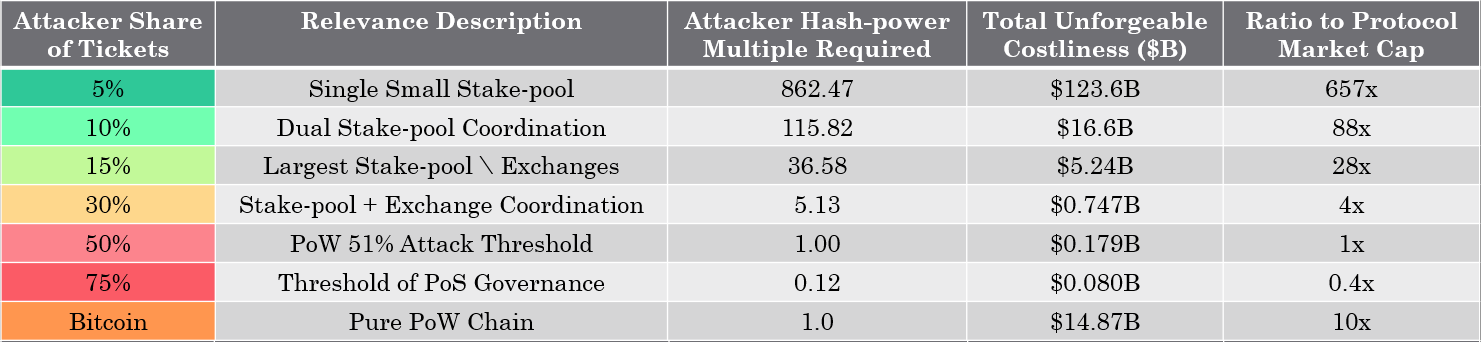
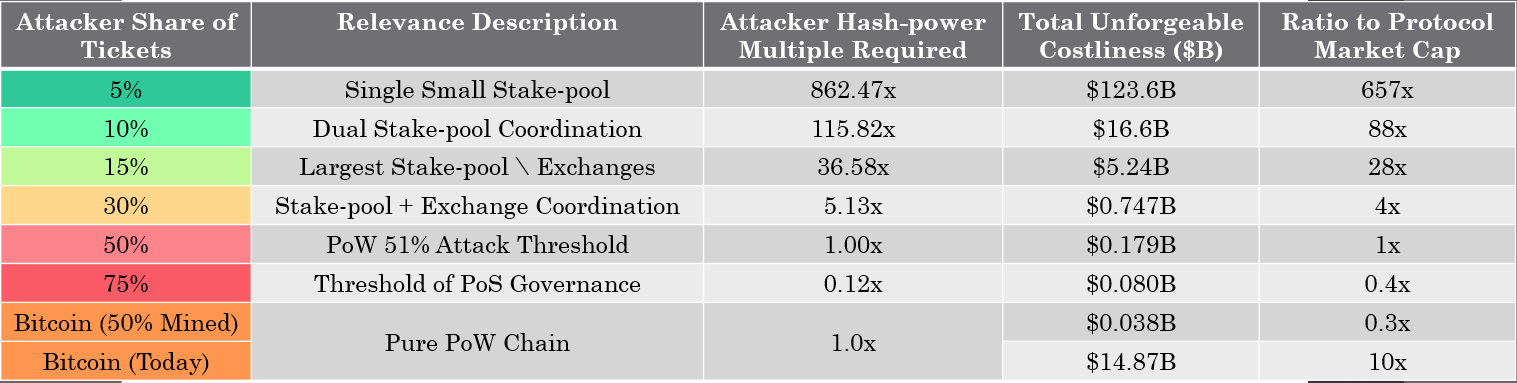
UC paper, final draft

diff --git a/research_articles/dcr_unforgeable_costliness/dcr_unforgeable_costliness.md b/research_articles/dcr_unforgeable_costliness/dcr_unforgeable_costliness.md
@@ -17,17 +17,17 @@ As **Bitcoin**  continues to assert it's market dominance, it is the correct ben
 
 In [Part 1 of this series](https://medium.com/@_Checkmatey_/monetary-premiums-can-altcoins-compete-with-bitcoin-54c97a92c6d4), I established that a convincing relationship exists between **Decred's** scarcity, measured by stock-to-flow ratio, and its market valuation. The linear regression analysis suggests that there is an underlying demand for DCR which is of remarkably similar conviction to that for BTC during it's formative years.
 
-In fact the correlations between **Decred** and **Bitcoin** at an equivalent age of 3.67 years are so strong that additional work is required to establish the depth to which **Decred** is following in **Bitcoin's** footsteps.
+In fact the correlations between **Decred** and **Bitcoin** at an equivalent age of 3.67 years (50% coins mined) are so strong, additional work is justified to establish the depth to which **Decred** is following in **Bitcoin's** footsteps.
 
-In this paper, I explore the **Security and Consensus** mechanisms of **Decred** and **Bitcoin** to quantify the unforgeable costliness of coin production. The immutability and resistance of these protocols to monopolistic capture is the core value proposition which enables the separation of money and state. As such, quantifying the performance and security budgets will provide confidence for people who chose to securely store their wealth in BTC or DCR, potentially for thousands of years to come.
+In this paper, I explore the **Security and Consensus** mechanisms of **Decred** and **Bitcoin** to quantify the unforgeable costliness of coin production, cost to attack each network and the finality of transactions. 
+
+Immutability and censorship resistance is the core value proposition of sound money protocols and that which truely enables the separation of money and state. As such, quantifying the security budgets, performance and finality will provide confidence for users, investors and speculators who chose to store their wealth in BTC or DCR, potentially for hundreds of years or more.
 
 ## Disclosure
 
-*This paper was written and researched as part of the author's [research proposal](https://proposals.decred.org/proposals/78b50f218106f5de40f9bd7f604b048da168f2afbec32c8662722b70d62e4d36) accepted by the Decred DAO. Thus, the writer was paid in DCR for their billed time undertaking the research. Nevertheless, the study aims to be objective and mathematically rigorous based on publicly available market and blockchain data. All findings can be readily verified by readers in the attached [spreadsheet]() and all assumptions shall be clearly stated.*
+*This paper was written and researched as part of the author's [research proposal](https://proposals.decred.org/proposals/78b50f218106f5de40f9bd7f604b048da168f2afbec32c8662722b70d62e4d36) accepted by the Decred DAO. Thus, the writer was paid in DCR for their billed time undertaking the research. Nevertheless, the study aims to be objective and mathematically rigorous based on publicly available market and blockchain data. All findings can be readily verified by readers in the attached [spreadsheet](analysis/dcr_unforgeable_analysis.xlsx) and all assumptions shall be clearly stated.*
 
-# ***UPDATE SPREADSHEET LINK***
-
-# Part 2 - Unforgeable Costliness
+# Unforgeable Costliness
 
 An essential characteristic of a digital sound money protocol is **Unforgeable Costliness**, that is the impossability of producing the asset without a provable expendature of capital, energy and/or time. Unforgeable Costliness stipulates that one of these scarce resources must be exchanged for production of another (capital being an abstraction of both energy and time). Without it, production may be gamed by those with greater access to the source, subsequently destroying the confidence and trust in future expectations of inflation.
 
@@ -37,7 +37,7 @@ Nick Szabo beautifully articulated the idea by describing the unavoidable and ex
 
 >"Precious metals and collectibles have an unforgeable scarcity due to the costliness of their creation. This once provided money the value of which was largely independent of any trusted third party” Nick Szabo (2005)
 
-Notable Examples of unforgeable costliness and the impact on relative scarcity are presented in the following table with the scarcest assets, that reliably store value over time, having a consistent feature set:
+Notable Examples of unforgeable costliness and the impact on relative scarcity are presented in the following table. The scarcest assets which reliably store value over time, have a consistent feature set:
 
 1. **Improbability of existence** due to mythology and skill of the creator, a low natural abundance or a hard coded fixed supply.
 2. **Requirement for expenditure  of capital, energy and time** during production in the form of physical mining, Proof-of-Work, capital expenditure  and human effort
@@ -45,21 +45,15 @@ Notable Examples of unforgeable costliness and the impact on relative scarcity a
 
 ![Scarcity_examples](images/image_1.png)
 
-The remainder of this paper will explore the ***Unforgeable Costliness*** of **Bitcoin** and **Decred** as a gauge on relative scarcity considering this metric. By quantifying the costs associated with each mechanism of coin production, we an form a thesis around the security and resilience of the system to uphold the codified scarcity.
+The remainder of this paper will explore the ***Unforgeable Costliness*** of **Bitcoin** and **Decred** as a gauge on relative scarcity and protocol security. By quantifying the unavoidable costs associated with coin production, we may formulate a thesis regarding the security, finality and resilience of the protocol to uphold the codified scarcity.
 
-The unforgeable costliness will be explored in the following areas:
+# Value in Authenticity
 
-1. Cost of Creation
-2. Cost of Production
-3. Cost of Time
+**Gold**, due to it's atomic properties is of extremely low abundance relative to other commodities. It's existence and supply is a product of the laws of physics and thus may only be acquired via exploration and extraction or by purchasing it off the market. This manifests as a natural constraint on inflation given the demands of production.
 
-# The Cost of Creation
+As a result, global civilisations have converged on gold as the monetary base throughout history and industrial uses represent only a small fraction of global gold demand. It seems a reasonable conclusion that gold's scarcity and monetary premium underlies its demand for jewelry, rather than the other way around.
 
-**Gold**, due to it's atomic properties is of extremely low abundance relative to other commodities. It's existence and supply is a product of the laws of physics and thus may only be acquired via physical exploration and extraction or by purchasing it off the market. This manifests as a natural constraint on supply inflation given demands of production and as a result,global civilisations have converged on gold as the monetary base throughout history.
-
-Industrial uses represent a small fraction of global demand and it is a reasonable conclusion that gold's scarcity and monetary premium underlies demand for jewelry, rather than the other way around.
-
-Scarce digital assets like **Bitcoin** and **Decred** differ to gold in that they are man-made and thus have a discrete, designed genesis event and the incentive model to secure these protocols relies on demand for the scarce native units (BTC and DCR). Thus the initial distribution mechanism must be carefully designed to incentivise protection of the protocol during early life whilst not compromising the market perception of scarcity and fairness.
+Scarce digital assets like **Bitcoin** and **Decred** differ to gold in that they are man-made and thus have a discrete, designed genesis event. The incentive model to secure these protocols relies on demand for the scarce native units (BTC and DCR). Thus, the initial distribution mechanism must be carefully designed to incentivise security during early life whilst simultaneously achieving a market perception of scarcity and fairness.
 
 Appreciation for the initial distribution is important for man-made scarce assets as it carries risk of unfair leverage granted to the creators. Establishing user trust in a money protocol requires great finesse and skill in design, and thus the cost of creation must be the subject of user critique.
 
@@ -86,7 +80,7 @@ The whitepaper for **Decred's** primitive called [Memcoin2](https://www.decred.o
 
 **Decred's** main-net launched on 8 Feb 2016 at which time the cryptocurrency market had by then reached an elevated state of maturity. **Bitcoin** had attained a market valuation over $6 billion and the market had significantly more participants and eyes (of friends and foes) than at the time of **Bitcoin's** launch. On one hand, these market conditions can benefit coin price appreciation and attract miners and investors, whilst on the other; pose challenges for bootstrapping security without compromising a 'fair initial distribution'. This was compounded by the established GPU mining industry which could have reasonably attacked **Decred** in it's early and vulnerable state. 
 
-### The Pre-mine
+## The Decred Pre-mine
 
 An important feature of **Decred** is it's Hybrid PoW/PoS security and consensus mechanism. In order to secure the chain at launch, it was necessary that a majority of honest actors, with an appreciation of the project's philosophy, participate in the Proof-of-Stake ticket system.
 
@@ -105,7 +99,7 @@ Some notes regarding the **Decred** pre-mine as of the time of writing are:
 
 ![Decred Pre-mine Status](images/image_03.png)
 
-### Early Distribution
+## Early Distribution
 
 The **Decred** block reward structure allocates 30% of the block-reward to Proof-of-Stake and thus results in a persistent dilution of governance rights for all participants. The chart below models the most conservative case (most advantageous for founders) where:
 1. All spent DCR from the pre-mine was perfectly staked by community and founders (no consideration of ticket price which in reality results in a portion of an individual's DCR not being included in the stake)
@@ -124,134 +118,145 @@ In a very similar manner to Satoshi, the **Decred** founders have taken appropri
 
 Key ingredients of **Decred's** initial distribution may be reasonably summarised as follows:
 1. Complete transparency of both the project genesis (as Memcoin2 and Decred) the conditions of pre-mine participation months in advance of releasing the code.
+
 2. An open application process for community members to participate with appropriate screening for false entries given heightened market awareness. Appropriate staking and mining tools made available at the time of launch across almost all operating systems.
+
 3. Awareness and coin distribution for people most likely to nurture the protocol through the most vulnerable early years.
+
 4. Appropriately gradual reduction in the role of the founding team including a deliberate dilution of voting right. This is exacerbated by the clear distribution of coins by PoW miners into the hands of investing community participants.
+
 5. An end of day founder's reward of 4% of the DCR supply which is consistent with that which public opinion deems fair remuneration for Satoshi's work on Bitcoin (value of time and skill).
 
 It is well known that some in the cryptocurrency industry view pre-mines as a dirty word which exist solely to unfairly benefit founding teams (with many unfortunate examples as evidence). The author has no expectation for changing those minds.
 
 What is desireable is to impart on the more open minded reader that **Decred** was launched in very different environment to **Bitcoin**. By careful design, a small pre-mine acted to both bootstrap network security during the most vulnerable years, allow Decred to remain self-sovereign (no external funding) and reward the team for their skill and time at the same rate as Satoshi Nakamoto.
 
-# The Cost of Production
+# The Cost of Acquisition
 
-Whilst it is critical to understand the genesis event of sound money protocols to ensure fairness of launch, the costs associated with it are subjective. It is difficult to assign a consistent value beyond the portion of total coin supply aquired during the 'immaculate conception' of **Bitcoin** (4% Satoshi mine) and the itricate design decisions of **Decred** (8% Decred pre-mine split 50/50). Both genesis events draw from respective cyper-punk roots, anonymous founders and the origin stories and distribution mechanisms will appeal differently to each individual.
+Whilst it's critical to understand the genesis event of sound money protocols to ensure fairness of launch, the costs associated with it are subjective. It is difficult to assign a consistent value beyond a portion of total coin supply aquired during the 'immaculate conception' of **Bitcoin** (4% Satoshi mine) or the intricate design decisions of **Decred** (8% pre-mine split 50/50). Both genesis events draw from respective cyper-punk roots, anonymous founders and the distribution mechanisms will appeal differently to each individual.
 
-However when it comes to quantifying the unforgeable costliness of coin production, it is possible to attribute real world costs in the form of energy, capital and human time invested. Cryptocurrency protocols are global phenomena secured by a complex and diverse range of isolated human interactions with Proof-of-Work mining and Proof-of-Stake lock-up. 
+However, it is possible to attribute real world costs in the form of energy, capital and human time invested to quantify the unforgeable costliness of coin production. Cryptocurrency protocols are a global phenomena secured by a complex and diverse range of isolated human interactions and thus a framework is required to simplify the problem. 
 
-The remainder of this paper aims to quantify this unforgeable costliness by assessing the converse; the cost required to forge coins in an minority chain attack. 
-
-An appropriate assumption in this instance is to expect rational honest actors to act in their own best interest which over time, tends toward an expendature of exactly as much energy, capital and time in production as the value of the asset produced allows. In other words, the marginal cost of production (MC) tends to equallity with the marginal reward (MR), a concept covered by Sztorc ([2014](http://www.truthcoin.info/blog/pow-and-mining/) and [2015](http://www.truthcoin.info/blog/pow-cheapest/)) in relation to PoW and PoS systems.
+An appropriate assumption in this instance is to expect rational actors to behave in their own best interest. Over time this will tend toward an expendature of exactly as much energy, capital and time in coin production as the value of the coins produced allow for. In other words, the marginal cost of production (MC) tends to equality with the marginal reward (MR). This concept is well covered by Sztorc ([2014](http://www.truthcoin.info/blog/pow-and-mining/) and [2015](http://www.truthcoin.info/blog/pow-cheapest/)) in relation to PoW and PoS systems.
 
 > Marginal Cost = Marginal Reward.
 
 > If a protocol block reward issues $100 dollars worth of coins, producers will compete and expend up to $100 dollars to create it. If one producer achieves an efficient production cost of $99.00, another producer will eventually achieve a production cost $99.01, until another achieves $99.02.
 
+The following analysis aims to quantify each protocol's unforgeable costliness and finality using this framework and assessing the converse; the unavoidable costs required to forge coins in a minority chain attack.
+
 ## Proof-of-Work
 
-**Bitcoin** and **Decred** share a common feature in Proof-of-Work (PoW) as the dominant mechanism for issuing new coins and an integral component of the security system. PoW ensures that the cost of coin production is rooted to the laws of physics with an associated energy consumption and computational capacity requirements. 
+**Bitcoin** and **Decred** share a common feature in Proof-of-Work (PoW) as the dominant mechanism for issuing new coins and an integral component of the security and incentive system. PoW ensures that the cost of coin production is rooted to the laws of physics with an associated energy consumption and computational requirement.
 
 Miners are exposed to the following costs denominated in traditional fiat currencies:
-1. CAPEX - Cost of mining hardware, establishment costs, capital costs etc
-2. OPEX - Electricity consumption, human resources, maintenance etc
+1. CAPEX - Cost of mining hardware, establishment costs, capital costs.
+2. OPEX - Electricity consumption, human resources, maintenance.
 
 These unavoidable mining costs necessitate distribution of coins into the market which enhances wealth distribution and participation opportunity.
 
-**Bitcoin** mining has evolved through several stages with dominant mining hardware progressing through CPUs, GPUs, FPGAs and finally to ASICs chips in 2012-13. **Decred** launched into a 2016 market where GPU miners were readily available and thus had an initial difficulty setting equivalent to the estimated hashpower of 256 contemporary GPU chips. **Decred** mining has progressed to become an ASIC dominated industry in early 2018 [8], [9]. 
+**Bitcoin** mining has evolved through several stages with dominant mining hardware progressing through CPUs, GPUs, FPGAs and finally to ASICs chips in 2012-13. **Decred** launched into a 2016 market where GPU miners were readily available and thus had an initial difficulty setting equivalent to the hashpower of 256 contemporary GPU chips. **Decred** mining has since progressed to become an ASIC dominated industry in early 2018 [[8](https://youtu.be/7K2sDhyjQys)], [[9](https://youtu.be/8TPFIVYy_i4)].
 
-The figure below shows the similarities in Bitcoin and Decred PoW growth with hashpower securing the network increasing by around five orders of magnitude over the first four years of operation (including the first bear market).
+The figure below shows the similarities in growth of the Proof-of-Work industries for **Bitcoin** and **Decred**. Both protocols have seen hashpower securing the network increase by five orders of magnitude over the first four years of operation (both weathering a bear market).
 
 ![BTC and DCR Proof-of-Work Difficulty and Hashrate](images/image_05.png)
 
 The progression of a PoW cryptocurrency to an ASIC dominated mining industry is important phase in the security lifecycle. These specific purpose chips are designed soley for mining the hash algorithm and thus lock in miner capital investment to securing the blockchain. ASICs enable massive economies of scale and long term planning of energy contracts and facilities which tends towards fewer and more centralised profitable entities who achieve a competitive MC = MR balance.
 
-Applying the MC = MR framework, we can estimate the dollar denominated cost of coin production. By summing the quantity of coins issued in the block reward and network transaction fees priced at the time of creation, we can quantify the available security subsidy. This metric acts as a ceiling cost where entities with marginal costs higher that this level are, in theory, operating at a loss.
+> Applying the MC = MR framework, we can estimate the dollar denominated cost of coin production. By summing the quantity of coins issued in the block reward and network transaction fees priced at the time of creation, we can quantify the available security subsidy. This metric acts as a ceiling cost where miners carrying marginal costs higher that this level are, in theory, operating at a loss.
 
-The analysis can been undertaken for two conditions:
-1. Cummulative sum of block rewards and fees, representing the total unforgeable costliness of the protocol. This metric may be considered a measure of scarcity accounting for the total value invested to produce the circulating supply.
+# Quantifying the Security Budget
 
-2. Daily cost to attack the protocol considering only the available security budget within each 24hr period. This daily block subsidy (incl. fees) represents the required cost for a malicious actor to attack the network, generate coins on an alternative chain and undermine protocol integrity.
+The following analysis has been undertaken for two conditions:
 
-## Quantifying the Security Budget
+**Case 1** - Cummulative sum of block rewards and fees, representing the total **unforgeable costliness** of the protocol. This metric may be considered a measure of scarcity, accounting for the total value expended to produce the circulating supply.
 
-For **Bitcoin**, the calculation for both conditions is relatively straight forward with the cummulative cost simply the running sum of the daily cost to attack:
+**Case 2** - Daily cost to attack the protocol considering only the available security budget within a 24hr period. This metric represents the minimum cost for a malicious actor to attack the network, generate coins on an alternative chain and undermine protocol integrity. This is key to understanding the **true finality** of transactions and value secured by the ledger.
+
+For **Bitcoin**, the calculation for both conditions is relatively straight forward with the unforgeable costliness of BTC simply equating to the running sum of daily security subsidy:
 
 ![Bitcoin Unforgeable Costliness](images/image_06a.png)
 
-For **Decred**, the hybrid PoW/PoS security mechanism has a number of unique characteristics which increase the relative cost to create an alternative chain and forge DCR coins:
+Two Bitcoin cases have been considered for an apples-to-apples comparison:
+1) Bitcoin at 50% coins mined (the equivalent coin age as Decred)
+2) Bitcoin at 85.6% coins mined (present day)
 
-- Each block requires initial PoW mining of a block by expendature of energy and computation
+For **Decred**, the hybrid PoW/PoS security mechanism has a number of unique characteristics which affect the relative cost to create an alternative chain and forge DCR coins:
+
+- Each block requires initial PoW mining of a block by expendature of energy and computation.
 
 - Mined blocks are then validation by 5 no. PoS Tickets, selected psudorandomly from a pool of a target size of 40,960 tickets.
 
-- A mined block requires 3/5 tickets to approve the block which if not attained, necessitates re-mining the previous block for a second submission to the validators. Thus a minority share of the PoS ticket pool requires a larger share of the hash-rate to re-mine invalidated blocks faster than the honest chain.
+- A mined block requires 3/5 tickets to approve the block which if not attained, necessitates re-mining the previous block for new submission to validators. Thus a minority share of the PoS ticket pool requires a larger share of the hash-rate to re-mine invalidated blocks faster than the honest chain.
 
-- Spamming of the PoS network is constrained by a hard limit of 20 tickets available for sale in each 5min Decred block. Each ticket also has a 24hr period of maturation before entering the pool as well as a 24hr period immediately after voting to prevent spam.
+- Spamming of the PoS network is constrained by a hard limit of 20 tickets available for sale in each 5min Decred block. Each ticket also has a 24hr period of maturation before entering the pool as well as a 24hr period immediately after voting.
 
-- The ticket price in DCR adjusts every 144 blocks (approx 12hrs) to adjust for relative demand for partcipants entering the target pool size of 40,960 tickets (stake difficulty).
+- The ticket price in DCR adjusts every 144 blocks (approx 12hrs) to account for relative demand for a spot in the target pool size of 40,960 tickets (the stake difficulty).
 
-- Where an attacker's block receives less than 5/5 ticket approvals, their PoW block reward is reduced proportionaly and those tickets voting against the majority are stripped of the PoS reward. This component has not been included in this analysis for simplicty however will act to make an attack even more costly as fewer mined/staked DCR are available to offset or sustain the attack.
+- Where an attacker's block receives less than 5/5 ticket approvals, their PoW block reward is reduced proportionaly and those tickets voting against the majority are stripped of the PoS block reward. This component has not been included in this analysis for simplicty however will act to make an attack even more costly as fewer mined/staked DCR are available to offset and sustain the attack.
 
-Production of a competing **Decred** block requires a trade-off between ownership of the PoS ticket pool and a corresponding share of the PoW hash-rate market. 
+Production of a competing **Decred** block therefore requires a trade-off between share of the PoS ticket pool and a corresponding share of the PoW hash-rate market. 
 
-The share of PoW/PoS required and cost to attack has been documented by Zubair Zia ([2018](https://medium.com/decred/decreds-hybrid-protocol-a-superior-deterrent-to-majority-attacks-9421bf486292)), Fiach_Dubh ([2019](https://medium.com/coinmonks/comparing-double-spend-resistance-decred-vs-bitcoin-part-1-330c8081b2a9)), Haon and Collins ([2018](https://medium.com/decred/detailed-analysis-of-decred-fork-resistance-93022e0bcde7)) and an invaluable paper by Stafford ([2019](https://github.com/buck54321/dcr-research/blob/master/paper/Attack-cost%20estimation.pdf)) which forms the basis of much of this analysis. The core relationship between probability of an attacker validating a block and the hashpower required to match the honest chain is presented in the formulation and chart below.
+The share of PoW/PoS required and cost to attack has been documented by Zubair Zia ([2018](https://medium.com/decred/decreds-hybrid-protocol-a-superior-deterrent-to-majority-attacks-9421bf486292)), Fiach_Dubh ([2019](https://medium.com/coinmonks/comparing-double-spend-resistance-decred-vs-bitcoin-part-1-330c8081b2a9)), Haon and Collins ([2018](https://medium.com/decred/detailed-analysis-of-decred-fork-resistance-93022e0bcde7)) and an invaluable paper by Stafford ([2019](https://github.com/buck54321/dcr-research/blob/master/paper/Attack-cost%20estimation.pdf)) which forms the basis for this analysis. The core relationship between the probability an attacker successfully validates a block and the hashpower required to match the honest chain is presented in the formulation and chart below.
 
 ![Bitcoin Unforgeable Costliness](images/image_06b.png)
 ![Decred Security Curve](images/image_07.png)
 
-This security curve shows the relative share of hashpower required to 'forge' a **Decred** block for a given share of the ticket pool (orange). It also presents amount of time (in days) of which an attacker would need to continuously buy all 20 tickets in every block to achieve this share of the pool (blue). This analysis does not account for honest ticket purchases diluting the attacker, nor the inevitable increase in the ticket price in DCR in response to the attacker's ticket demand.
+The Decred security curve shows the multiple of honest hashpower required to 'forge' a **Decred** block for a given share of the ticket pool (orange). It also presents amount of time (in days) to which an attacker would need to commit to buying all 20 tickets in every block to achieve that share of the pool (blue). 
 
-A hashpower multiple of 1.0 implies the attacker needs hashpower equal to the honest miners (a traditional 51% attack) in addition to the cost of the tickets. The chart is curtailed at a 75% share of the ticket pool as this is the threshold at which protocol governance decisions can be passed regarding a chain fork, and arguably better termed the point of 'consensus' than an 'attack'.
+This analysis does not account for honest ticket purchases diluting the attacker, nor the inevitable increase in the ticket price in DCR in response to the attacker's ticket demand.
 
-It can be seen that for a share of tickets less than 25%, the required hashpower to forge a **Decred** block increases exponentially and requires greater than 10x the honest miner hashpower. At 50% of tickets, **Decred** security functions similar to a pure PoW chain requiring a 51% attack to double spend, albeit with the additional cost to aquire 50% of the tickets.
+A hashpower multiple of 1.0 implies the attacker needs hashpower equal to the honest miners (a traditional 51% attack) in order to keep up with the honest chain [(Haon and Collins, 2019)](https://medium.com/coinmonks/comparing-double-spend-resistance-decred-vs-bitcoin-part-1-330c8081b2a9). The chart is curtailed at a 75% share of the ticket pool as this represents the threshold at which protocol governance decisions can be passed supporting a chain fork. Arguably, this point is better termed 'consensus' rather than than an 'attack'.
+
+It can be seen that for a share of tickets less than 25%, the required hashpower to forge a **Decred** block increases exponentially and requires in excess of 10x the honest miner hashpower. At 50% of tickets, **Decred** security functions similar to a pure PoW chain requiring a 51% attack to double spend, albeit with the additional cost to aquire DCR ammounting to 50% of the ticket pool.
 
 > Decred's Hybrid security mechanism maintains the core value proposition of the pure PoW system employed by Bitcoin and overlays PoS validation akin to two-factor authentication. This enhances the actual security by orders of magnitude in the most probable scenarios of ticket ownership share by an attacker.
 
-## Unforgeable Costliness of BTC and DCR
+# Unforgeable Costliness of BTC and DCR
 
 Accounting for the relationship between **Decred's** hybrid PoW and PoS components, the Unforgeable Costliness of DCR may be calculated for any theoretical share of attacker tickets. 
 
-To provide context and reasonable grounds for selecting a feasible attack scenario, the author has determined known points of DCR centralisation which could launch or supply a coordinated attack on the **Decred** network. This includes known exchange wallets, the founder pre-mine, operating stake-pools (47.52% of tickets total) and the protocol treasury (which equally could be deployed in defense by stakeholders in the most extreme scenario). 
+To provide context and grounds for a rational attack scenario, the author has determined known points of DCR centralisation that could launch or supply a coordinated attack on the **Decred** network. This includes known large exchange wallets, the founder's pre-mine, operating stake-pools (holding 47.52% of tickets at time of writing) and the protocol treasury (which equally could be deployed in defense by stakeholders in the most extreme scenario). 
 
 The analysis assumes that the entity purchases tickets at the current typical price of 140DCR and is entering a target pool of 40,960 tickets. No penalty is considered for the unavoidable ticket price increase resulting from an attackers ticket demand.
 
 ![DCR centralisation vectors](images/image_10.png)
 
-On this basis, the following representative cases have been used to calculate the cummulative Unforgeable Costliness of both **Bitcoin** and **Decred** throughout their history, plotted against coin age (circ. supply / 21M). The market cap of Bitcoin and Decred at the time of writing are $141.2B and $188.0M for calculating the Unforgeable Costliness to Market Cap ratio.
+The following representative cases have been used to calculate the cummulative Unforgeable Costliness of both **Bitcoin** and **Decred** through their history. Results are plotted against coin age (circ. supply / 21M) to normalise for the stage in the protocol lifespan. The market cap of Bitcoin and Decred at the time of writing are $141.2B and $188.0M for calculating the Unforgeable Costliness to Market Cap ratio (a metric of security to valuation).
 
 ![Analysis Cases Considered](images/image_08.png)
 ![Cummulative Unforgeable Costliness](images/image_09.png)
 
-It can quickly be ascertained that at a low but reasonable proportion of tickets held (<10%), the cummulative cost to forge DCR on a minority chain would be $16.6+ Billion, 11% higher than for Bitcoin across it's entire lifespan. That minority Decred chain would also require consistent input of 115x of the current operational PoW mining hash-power which is considered by the author to be both unlikely and impractical.
+It can quickly be ascertained that at a low but reasonable proportion of tickets held (<10%), the cummulative cost to forge DCR on a minority chain would be $16.6+ Billion, 11% higher than for Bitcoin across it's entire lifespan. That minority Decred chain would also require consistent input of 115x of the current honest PoW hash-power which the author considers to be both unlikely and impractical.
 
-In the instance of a malicious cartel including all stake-pools which currently host 47.52% of tickets, the unforgeable costliness of DCR (50% ticket case) reduces to around $0.179 Billion, approximately equal to the Market Cap of the Decred protocol. This attack essentially necessitates a cost equal to the protocols entire valuation whilst also needing an equal amount of hashpower to the honest miners. It is important to note that Bitcoin is currently worth $141 Billion, approximately 10x it's unforgeable costliness.
+In the instance of a malicious cartel including all stake-pools and exchanges, the unforgeable costliness of DCR (50% ticket case) reduces to around $0.179 Billion, approximately equal to the Market Cap of the Decred protocol. This attack necessitates a cost equal in value to that of the target (Decred) whilst also needing an amount of hashpower equal to the honest miners (a 51% attack).
 
-As an extreme case, it is appropriate that the cost to attack would be commeasurate with the value of the target (the Decred protocol).
+Bitcoin at an equivalent age of 50% coins mined boasted an unforgeable costliness of $38Million (30% of its Market Cap) is currently valued at $141 Billion, approximately 10x it's unforgeable costliness. This indicates a monetary premium gained over time and will be a valuable metric to observe for Decred as it continues it's growth.
 
-On the basis of this analysis, it can be argued that the Unforgeable Costliness of production for DCR at the time of writing, with 10% of tickets owned, is greater than the unit Unforgeable Costliness of BTC production. A remarkable feat for a project 680x smaller in market valuation that Bitcoin.
+On the basis of this analysis, it can be argued that the Unforgeable Costliness for DCR is greater than the unit Unforgeable Costliness of BTC production for any attack with less than 10% of the ticket pool. At a rational, albeit extreme attack vector with 30% to 50% of the tickets, Decred has an unforgeable costliness of 5.0% and 1.2% of Bitcoin's. This is a remarkable feat for a protocol 750x smaller in market valuation that Bitcoin (0.12% in size).
 
-## Finality of Bitcoin and Decred
+# Finality of Bitcoin and Decred
 
-The second analysis considers the real-time cost to attack each protocol on a daily basis to establish the relative settlement finality of transactions. Whilst the cummulative protocol cost is a valuable metric for scarcity and long term security, the consistency and level of network security on a daily basis is of the utmost importance for a functional sound money protocol.
-
-Two cases have been considered for Bitcoin 
-1) Bitcoin at 50% coins mined (the equivalent coin age as Decred)
-2) Bitcoin at 85.6% coins mined (present day)
+The second analysis considers the real-time cost to attack each protocol on a daily basis to establish a relative settlement finality of transactions. Whilst the cummulative protocol cost is a valuable metric for scarcity and long term security, the consistency and magnitude of network security day-to-day is of the utmost importance for a functional sound money protocol.
 
 ![Analysis Cases](images/image_12.png)
 ![Daily Cost to attack](images/image_11.png)
 
-**Decred** again shows remarkable performance with an upper bound daily security budget of 28% of the total network value (5% tickets) and a lower bound of 0.02%, corresponding to an attacker share of 5% and 75% of tickets, respectively. For comparison, Bitcoin at an equivalent age (50% mined) maintained a daily security budget of 2.4% (10x less) and is currently supported by a daily budget of 0.01% of network value.
+**Decred** again shows remarkable performance:
+- Upper bound Decred 24hr security budget equivalent to 28% of network value at 5% ticket share
+- Lower bound Decred 24hr security budget equivalent to 0.02% of network value at 75% ticket share
+- Bitcoin at an equivalent age (50% mined) maintained a 24hr security budget of 2.4% of network value 
+- Bitcoin is currently supported by a 24hr security budget of 0.01% of network value.
 
-> In the upper bound condition of 5% of tickets owned, Decred boasts a superior daily security cost and finality relative to Bitcoin, making the protocol the most secure blockchain known to the author. 
+> In the upper bound condition of 5% of tickets owned, Decred boasts a superior daily security cost and finality relative to Bitcoin, making the protocol the most secure blockchain known to the author. In the extreme lower bound case (level of PoS consensus), Decred matches Bitcoin in finality per unit of market cap.
 
-For finality analysis, it is the author's opinion that an attacking ticket share of 30% is appropriate considering it would be feasible, albeit difficult, to coordinate an attack with dominant cenytralised stakepools and exchanges involved. It is important to note the following considerations which still make this attack vector unlikely:
-- The attack would require 5x the live Decred hashpower with associated logistics and on-chain signiatures.
-- It would permanently damage the reputation of all centralised entities involved (a similar game theory logic often leveled against Bitcoin).
-- The defensive actions of honest Decred participants are ignored.
-- Notable conservatisms are present in this analysis including ignoring the reduced block reward on a minority chain and a static ticket price. 
+Based on the analysis undertaken, it is the author's opinion that an attacking ticket share of 30% is an appropriatly feasible attack vector, albeit difficult to coordinate. The attack would require dominant centralised stakepools and exchanges to conspire and it remains important to note the following considerations that still make the attack vector unlikely:
+- The attack would require 5x the honest Decred hashpower with the associated logistics and on-chain signiatures.
+- It would permanently damage the reputation of all centralised entities involved (a similar game theory logic often leveled in support of centralised Bitcoin mining operations).
+- The defensive actions of honest Decred participants are ignored and would make the attack more expensive.
+- Notable conservatism is present in this analysis including ignoring the reduced block reward on a minority chain and assuming a static ticket price.
 
-The Decred Finality Ratio is defined as the real time ratio between Daily cost to attack Decred over Bitcoin. A finality ratio of 2.0 indicates 
+The Decred Finality Ratio is thus defined as the real time ratio between 24hr security budget of Decred compared to Bitcoin. A finality ratio of 2.0 indicates Decred settles twice as fast as Bitcoin whilst a ratio of 0.2 means Decred settles 5x slower. 
 ![Analysis Cases](images/image_14.png)
 ![Analysis Cases](images/image_13.png)
 
